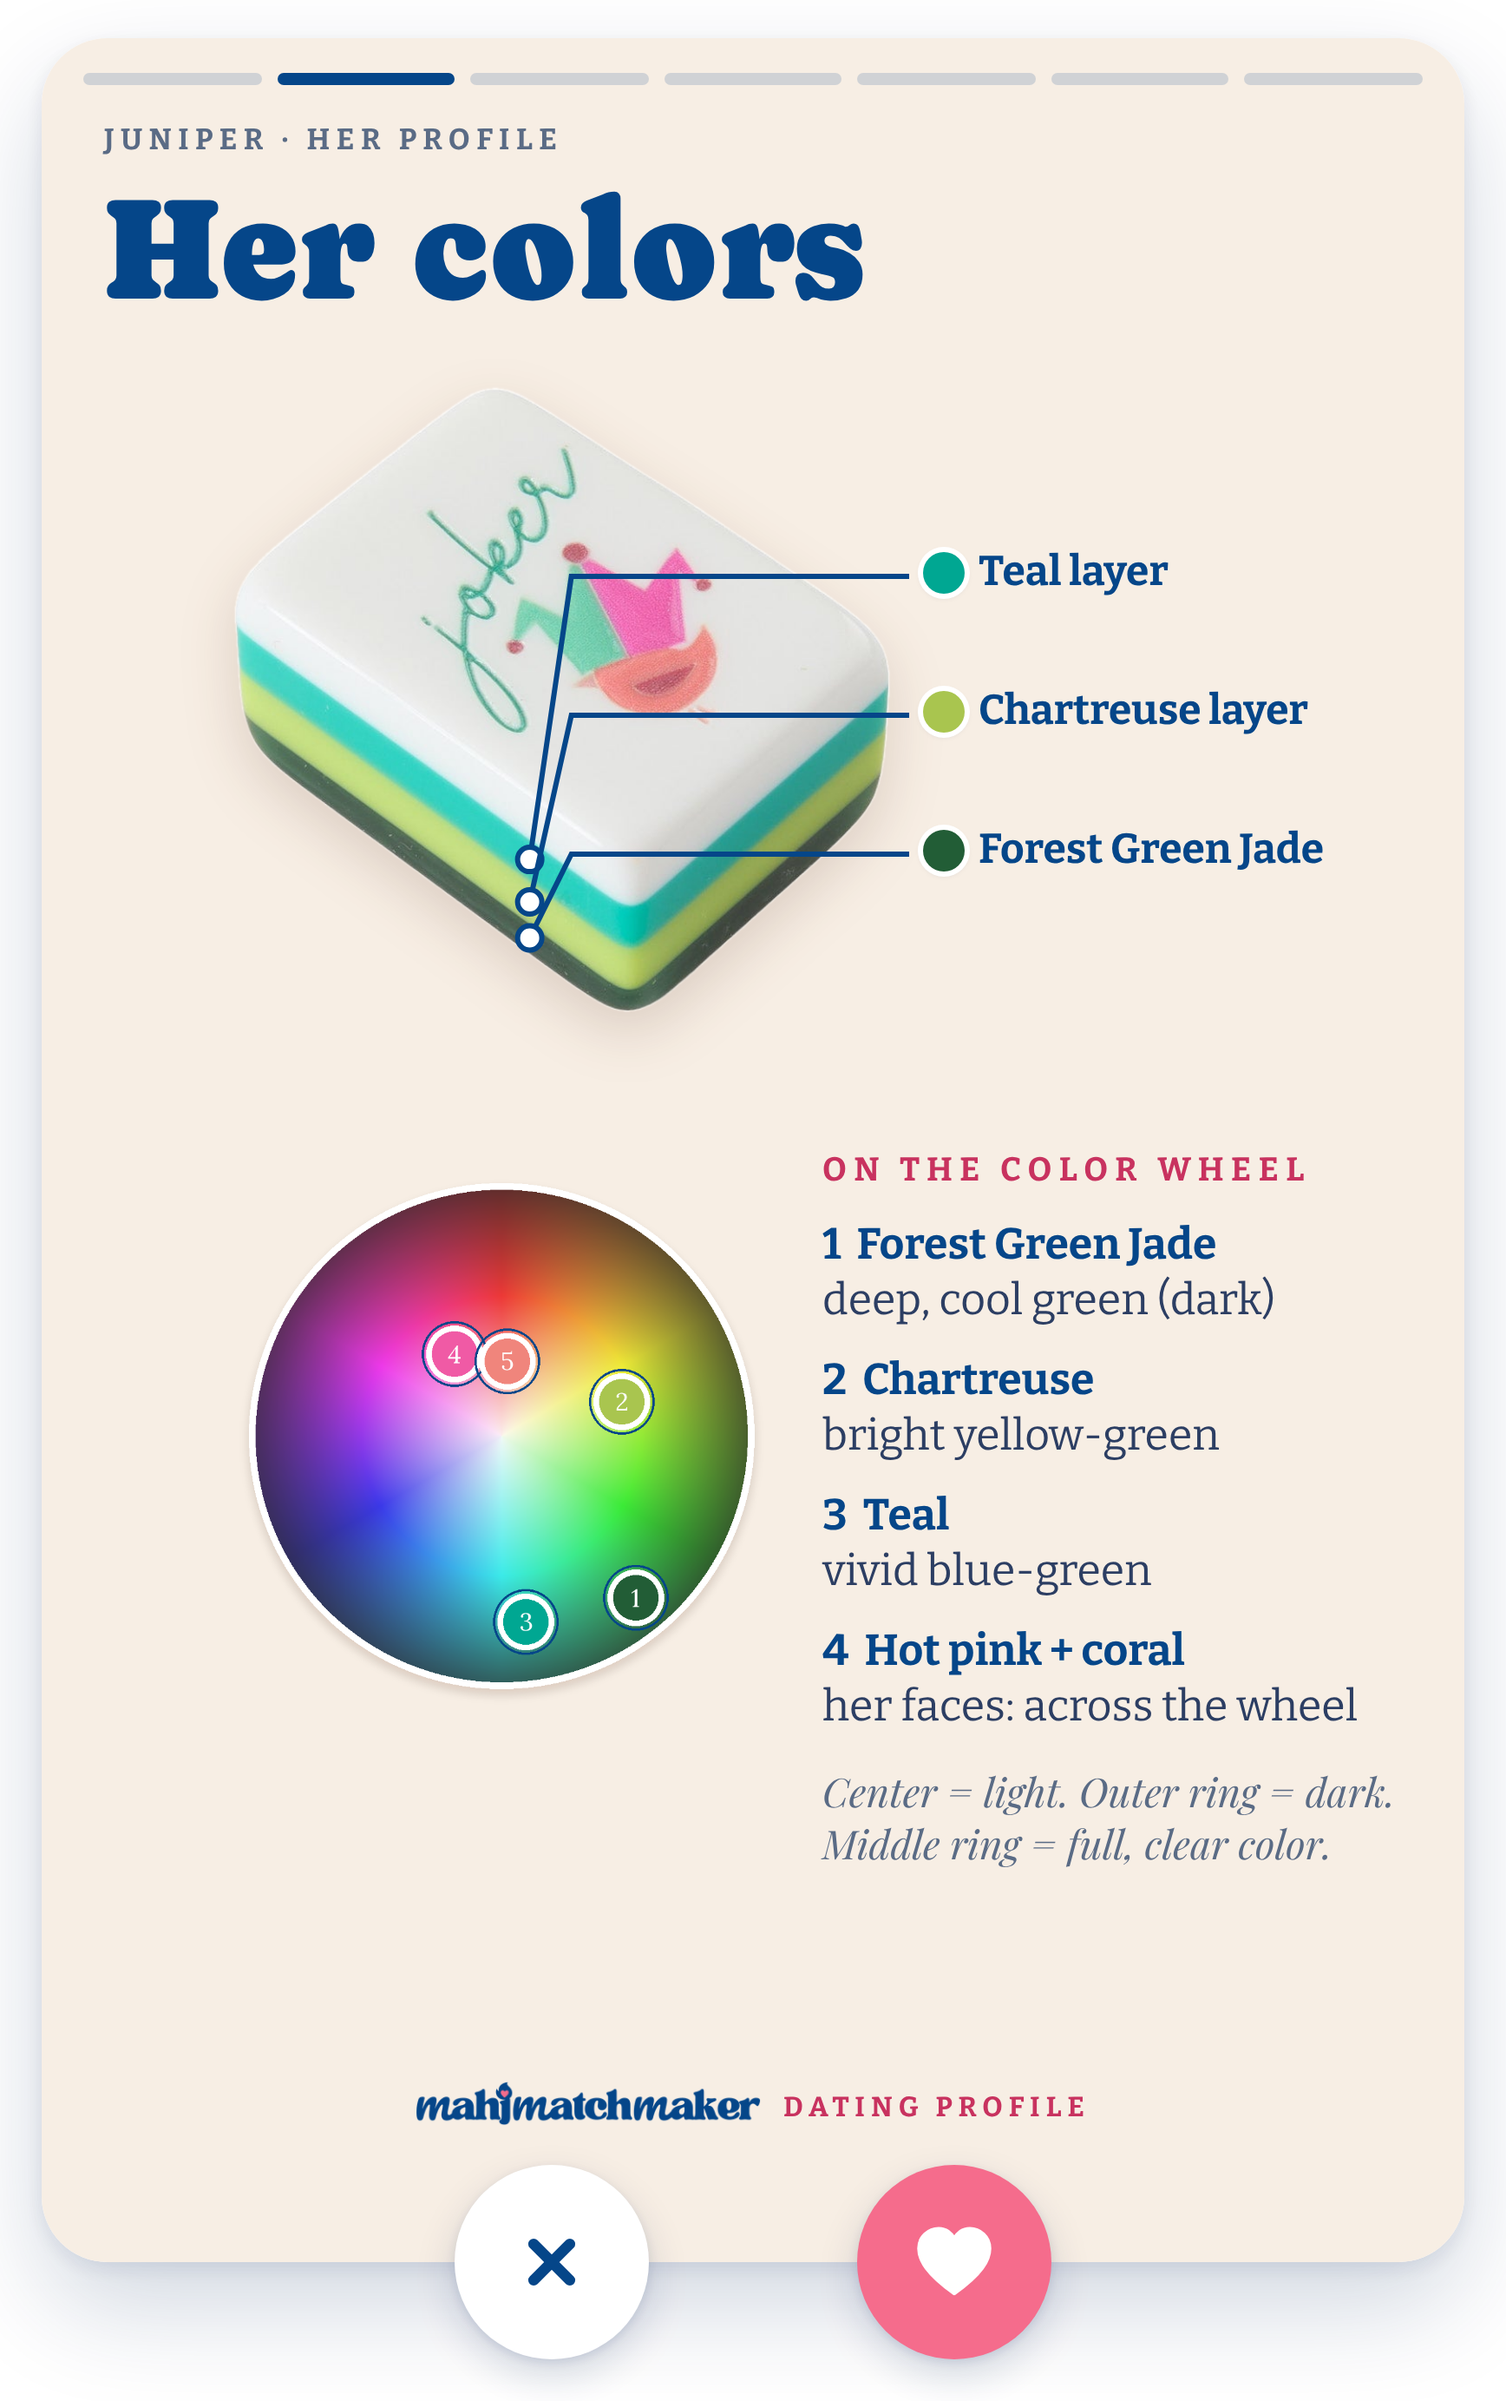
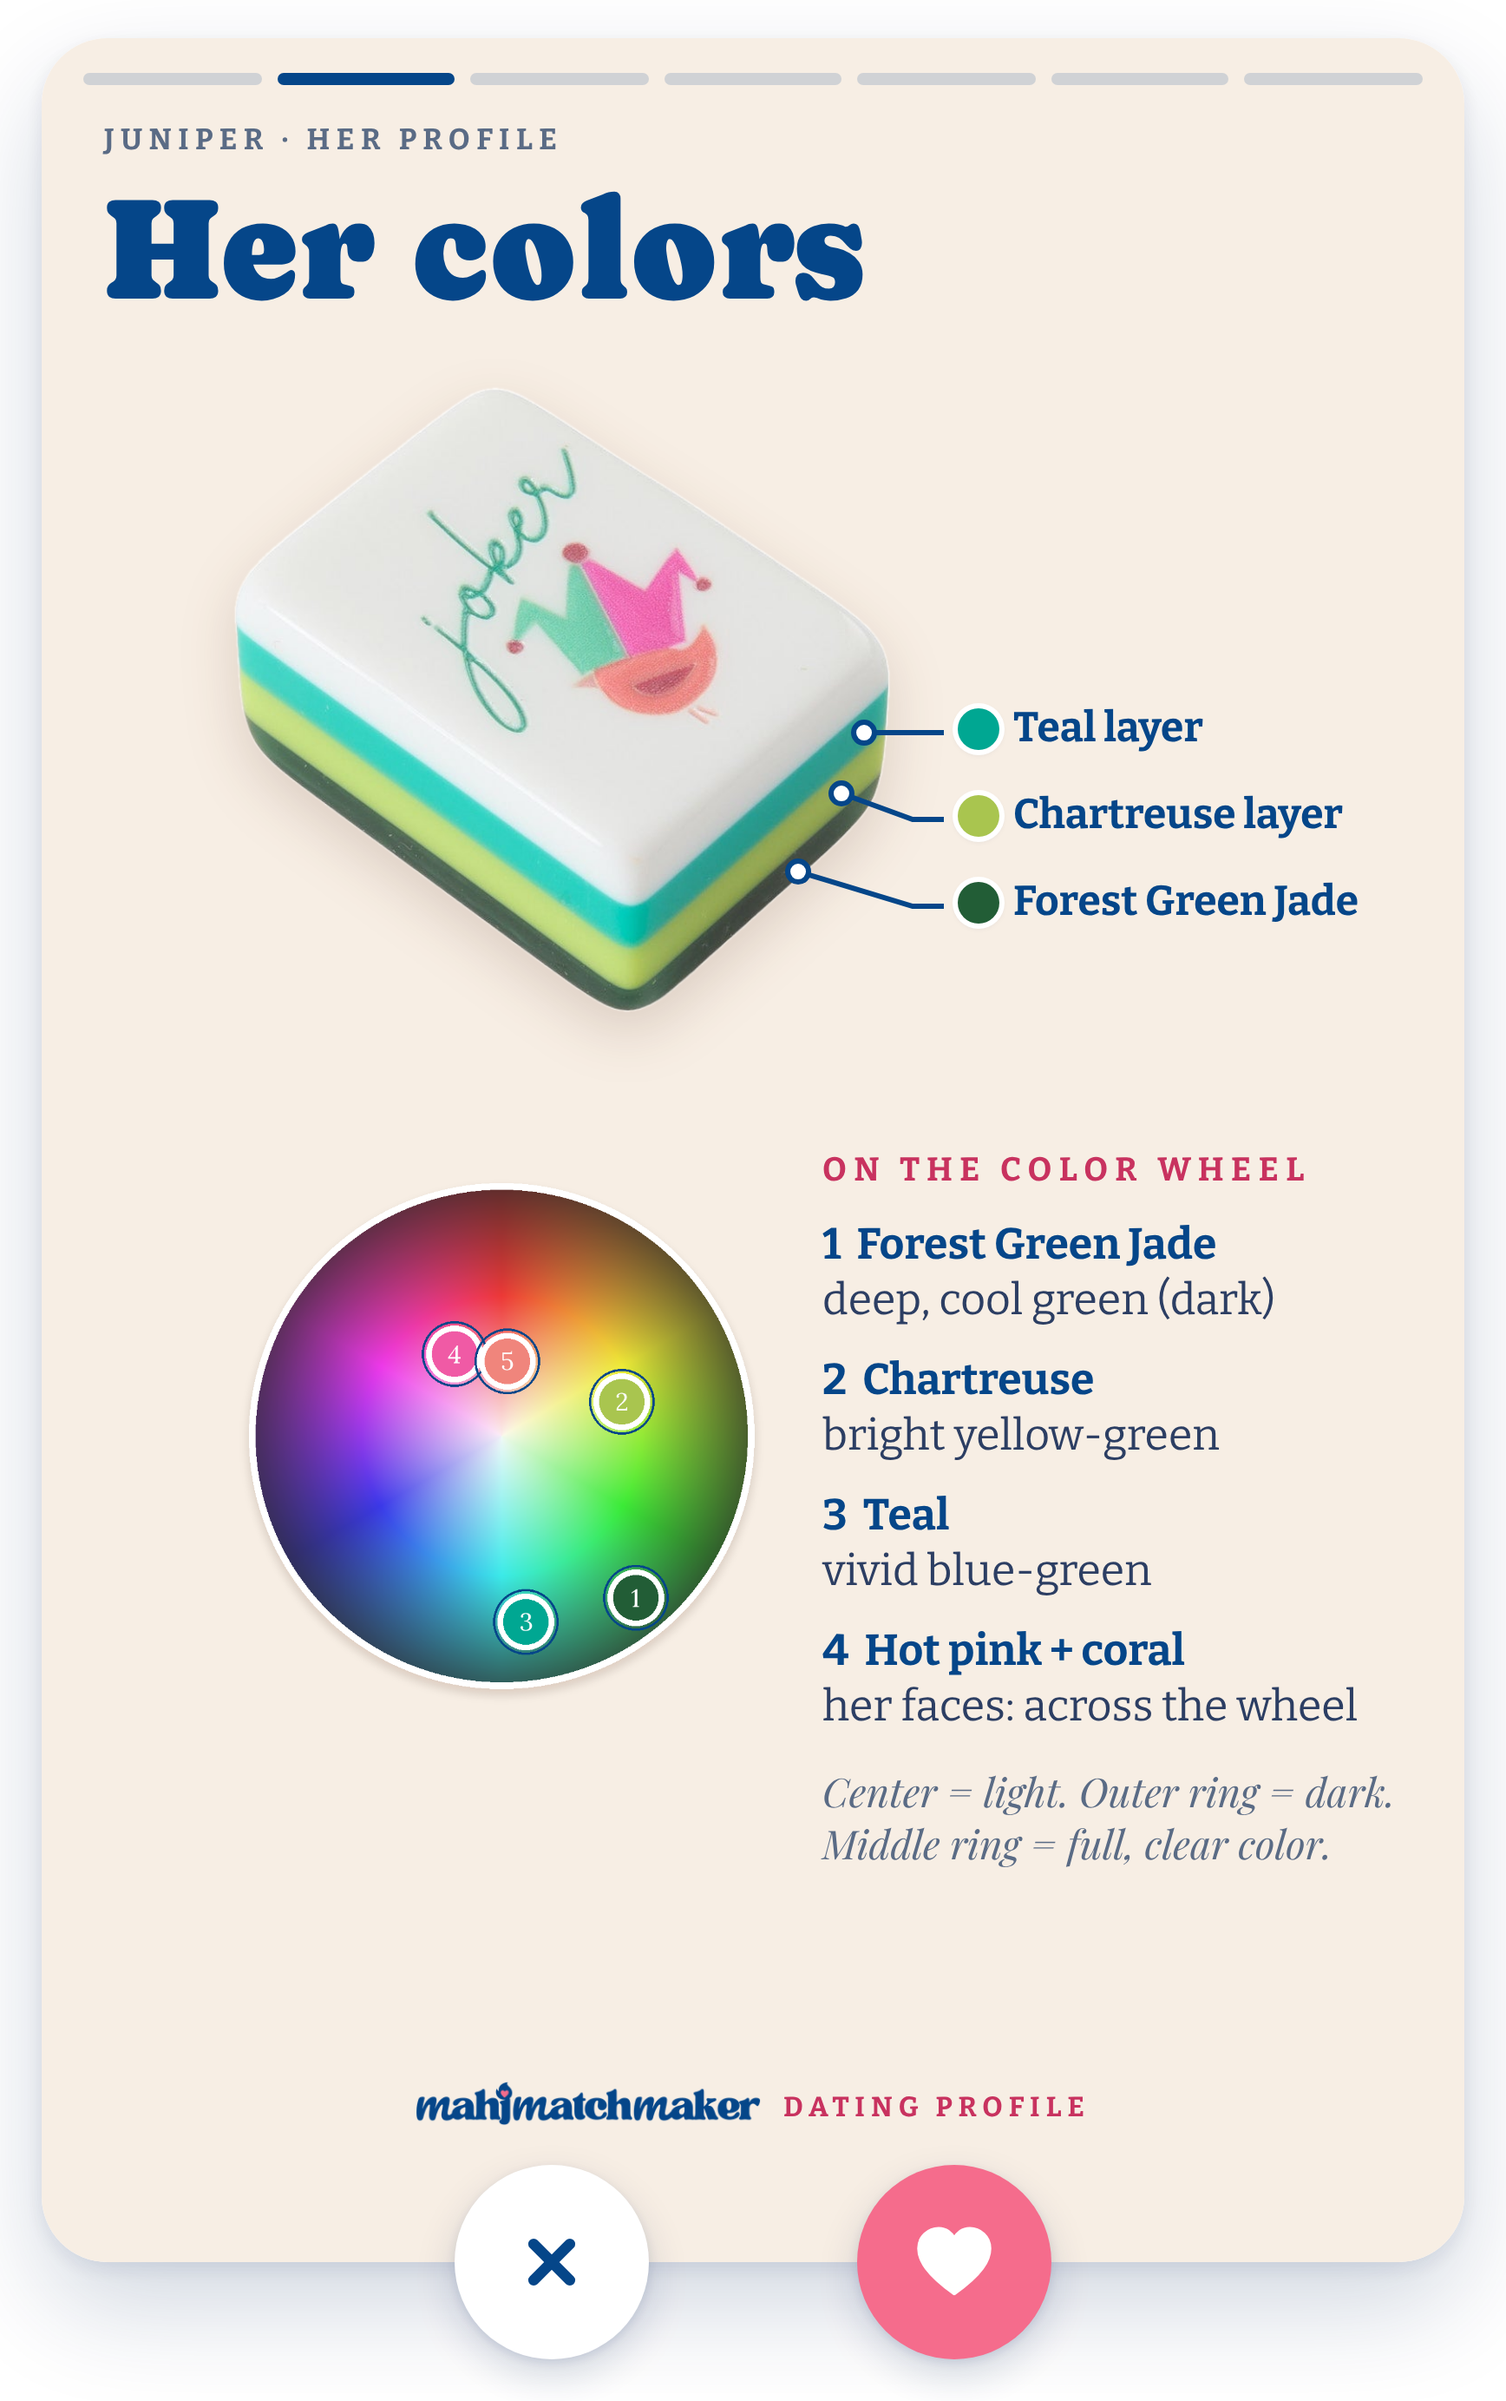
Juniper profile card 5: approved copy back, racks at real proportions, + OMM Pink Quartz (social only) to fill the card; card 2 layer dots re-rendered as PNG
Claude-Session: https://claude.ai/code/session_01QxwYQtmWcAr4s5uYJYP3mA

Changed region(s): [[0.4977, 0.2798, 0.9021, 0.4042], [0.591, 0.2176, 0.7776, 0.2487], [0.3422, 0.2798, 0.4044, 0.4042]]

diff --git a/scripts/social/tileprofile/intro_framed.py b/scripts/social/tileprofile/intro_framed.py
@@ -97,15 +97,15 @@ s4 = (hdr(('Her best features', 72)) +
       f'{ab(L, 676, "display:flex;justify-content:space-between", W)}{sing}</div>')
 
 # ---- slide 5: racks she's into
-RACK = {'Oh My Mahjong Hot Pink': 'assets/racks/card/oh-my-mahjong-hot-pink.png', 'Oh My Mahjong Agate': 'assets/racks/card/oh-my-mahjong-agate.png', 'Bird & Bamboo Lavender': 'assets/colorcards/papaya-spritz/racks/bird-and-bamboo-lavender.png', 'Peace Love Mahjong Chartreuse': 'assets/racks/card/peace-love-mahjong-chartreuse.png',
+RACK = {'Oh My Mahjong Pink Quartz': 'assets/racks/card/oh-my-mahjong-pink-quartz.png', 'Oh My Mahjong Hot Pink': 'assets/racks/card/oh-my-mahjong-hot-pink.png', 'Oh My Mahjong Agate': 'assets/racks/card/oh-my-mahjong-agate.png', 'Bird & Bamboo Lavender': 'assets/colorcards/papaya-spritz/racks/bird-and-bamboo-lavender.png', 'Peace Love Mahjong Chartreuse': 'assets/racks/card/peace-love-mahjong-chartreuse.png',
         'Peace Love Mahjong Oak': 'assets/racks/card/peace-love-mahjong-oak.png', 'Middle & Main Scalloped Beechwood': 'assets/racks/card/middle--main-scalloped-beechwood.png',
         'Mahjong Row & Co. Scalloped Tortoise': 'assets/racks/card/mahjong-row--co-scalloped-tortoise.png'}
 BRANDS = ('Oh My Mahjong', 'Bird & Bamboo', 'Peace Love Mahjong', 'Middle & Main', 'Miss Mahjong', 'Mahjong Row & Co.', 'Bam Bird Boutique')
 def rrow(r):   # same as the APPROVED carousel slide (carousel.py): brand + name on one line, racks at real proportions
     b = next((x for x in BRANDS if r['name'].startswith(x)), r['name'].split()[0]); c = r['name'][len(b) + 1:]
-    return (f'<div style="margin-top:22px"><div style="display:flex;align-items:baseline;gap:14px"><span class="caps" style="font-size:17px;color:#8a6a80">{e(b)}</span><span class="pf" style="font-size:40px;font-weight:600">{e(c)}</span></div>'
+    return (f'<div style="margin-top:32px"><div style="display:flex;align-items:baseline;gap:14px"><span class="caps" style="font-size:17px;color:#8a6a80">{e(b)}</span><span class="pf" style="font-size:40px;font-weight:600">{e(c)}</span></div>'
             f'<img src="{url(RACK[r["name"]])}" style="display:block;width:{W}px;height:{"auto" if P.get("rack_natural") else "84px"};object-fit:fill;margin-top:8px;filter:drop-shadow(0 8px 10px rgba(6,40,90,.18))"></div>')
-grp = lambda g: ''.join(rrow(r) for r in P['racks'] if r.get('group', 'color') == g)
+grp = lambda g: ''.join(rrow(r) for r in P['racks'] + P.get('racks_social_extra', []) if r.get('group', 'color') == g)  # extra = social-only racks (Nov 10 3:47pm)
 # Nov 10 3:46pm (Tiffany): the framed version is the APPROVED slide put in the frame. Same text, same racks, same
 # proportions as carousel.py s4. Never rewrite copy or reshape images when re-framing an approved graphic.
 _ver = grp("versatile")
@@ -116,7 +116,7 @@ if _ver:
              f'<span class="pf" style="font-size:27px;color:#3c4f73">my go-tos with any set</span></div>{_ver}'
              f'<div class="hand" style="font-size:40px;margin-top:22px;color:var(--pink)">now, who she&rsquo;s dating &rarr;</div>')
 else:
-    _body = (grp("color") + f'<div class="hand" style="font-size:44px;margin-top:34px;color:var(--navy)">{P.get("racks_hand", "all three picked for her, not just any rack")} &hearts;</div>'
+    _body = (grp("color") + f'<div class="hand" style="font-size:44px;margin-top:34px;color:var(--navy)">{P.get("racks_hand_framed") or P.get("racks_hand", "all three picked for her, not just any rack")} &hearts;</div>'
              f'<div class="hand" style="font-size:40px;margin-top:6px;color:var(--pink)">now, who she&rsquo;s dating &rarr;</div>')
 s5 = (hdr(("Racks she's into", 80)) +
       f'{ab(L, 180, "", W)}<div class="pf" style="font-size:29px;line-height:1.25;color:#3c4f73">A color from her layers, or a rack that goes with everything.</div>'
